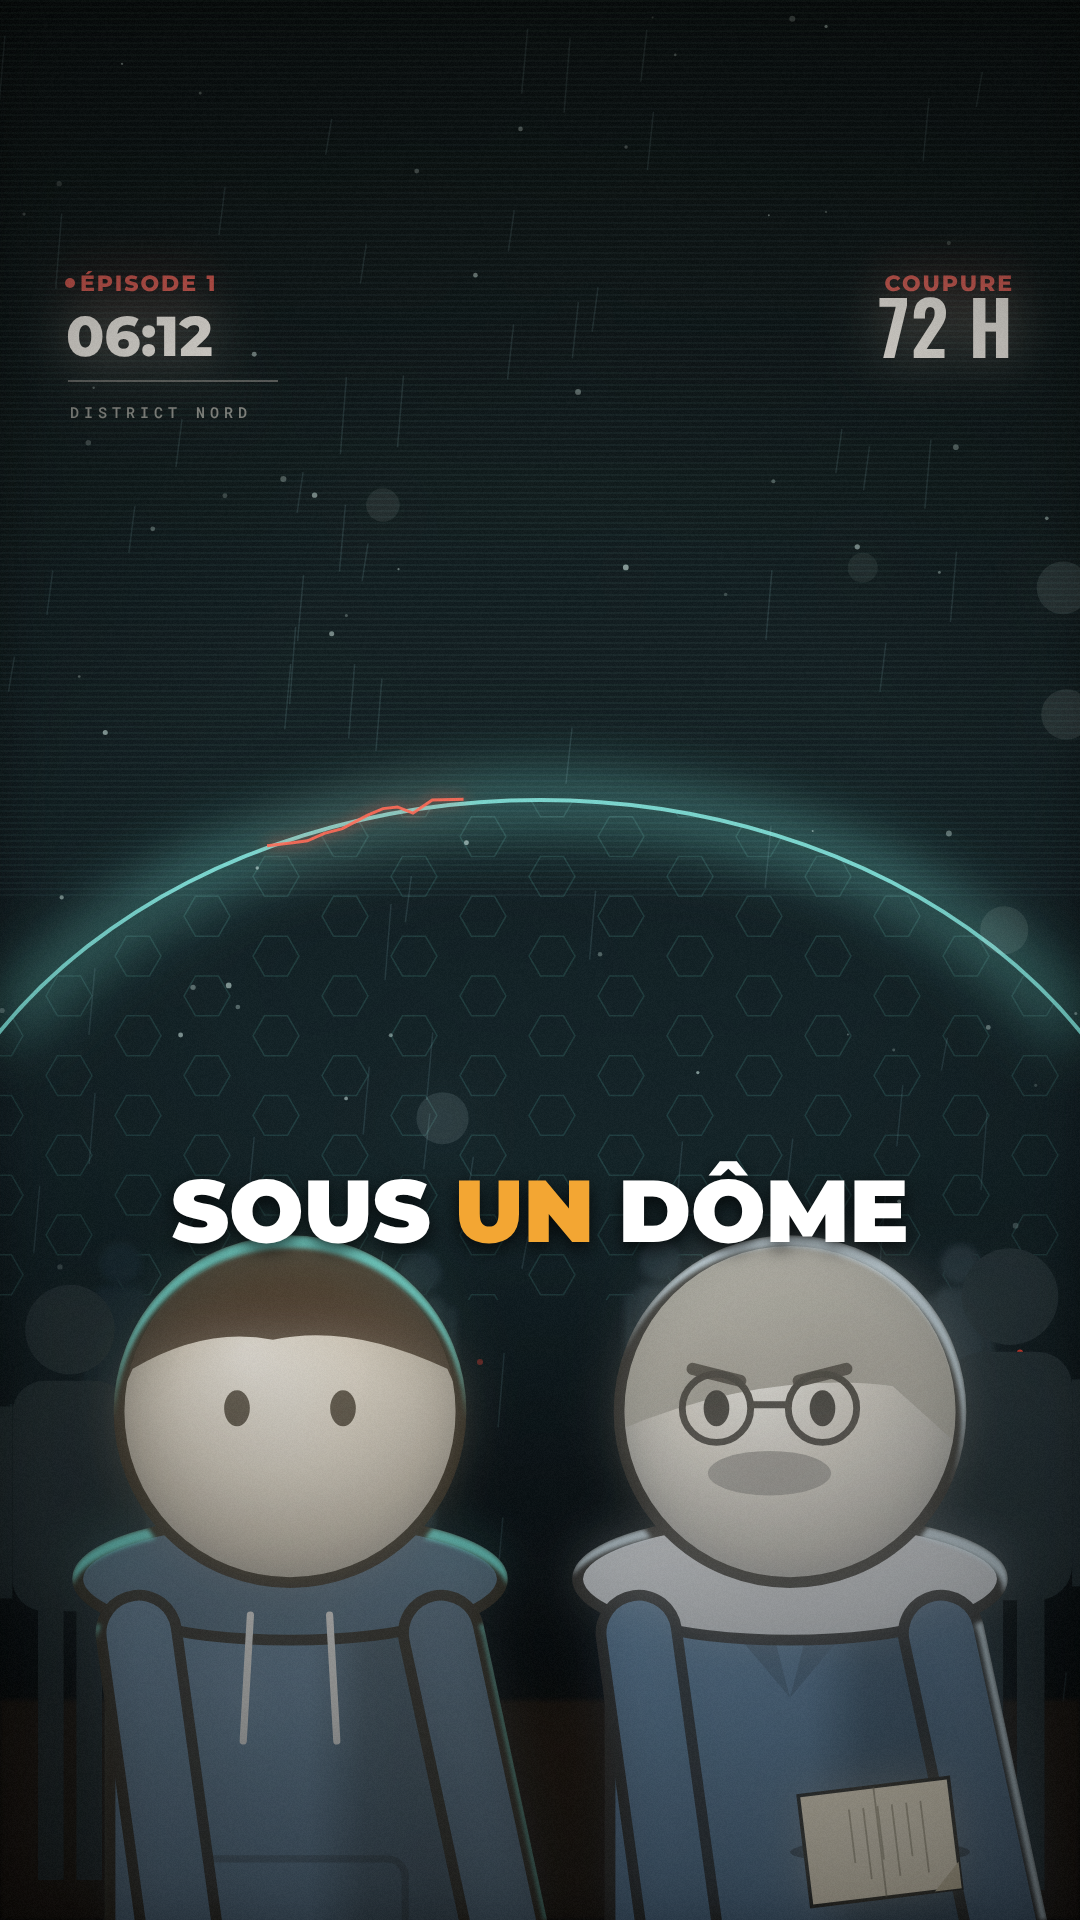
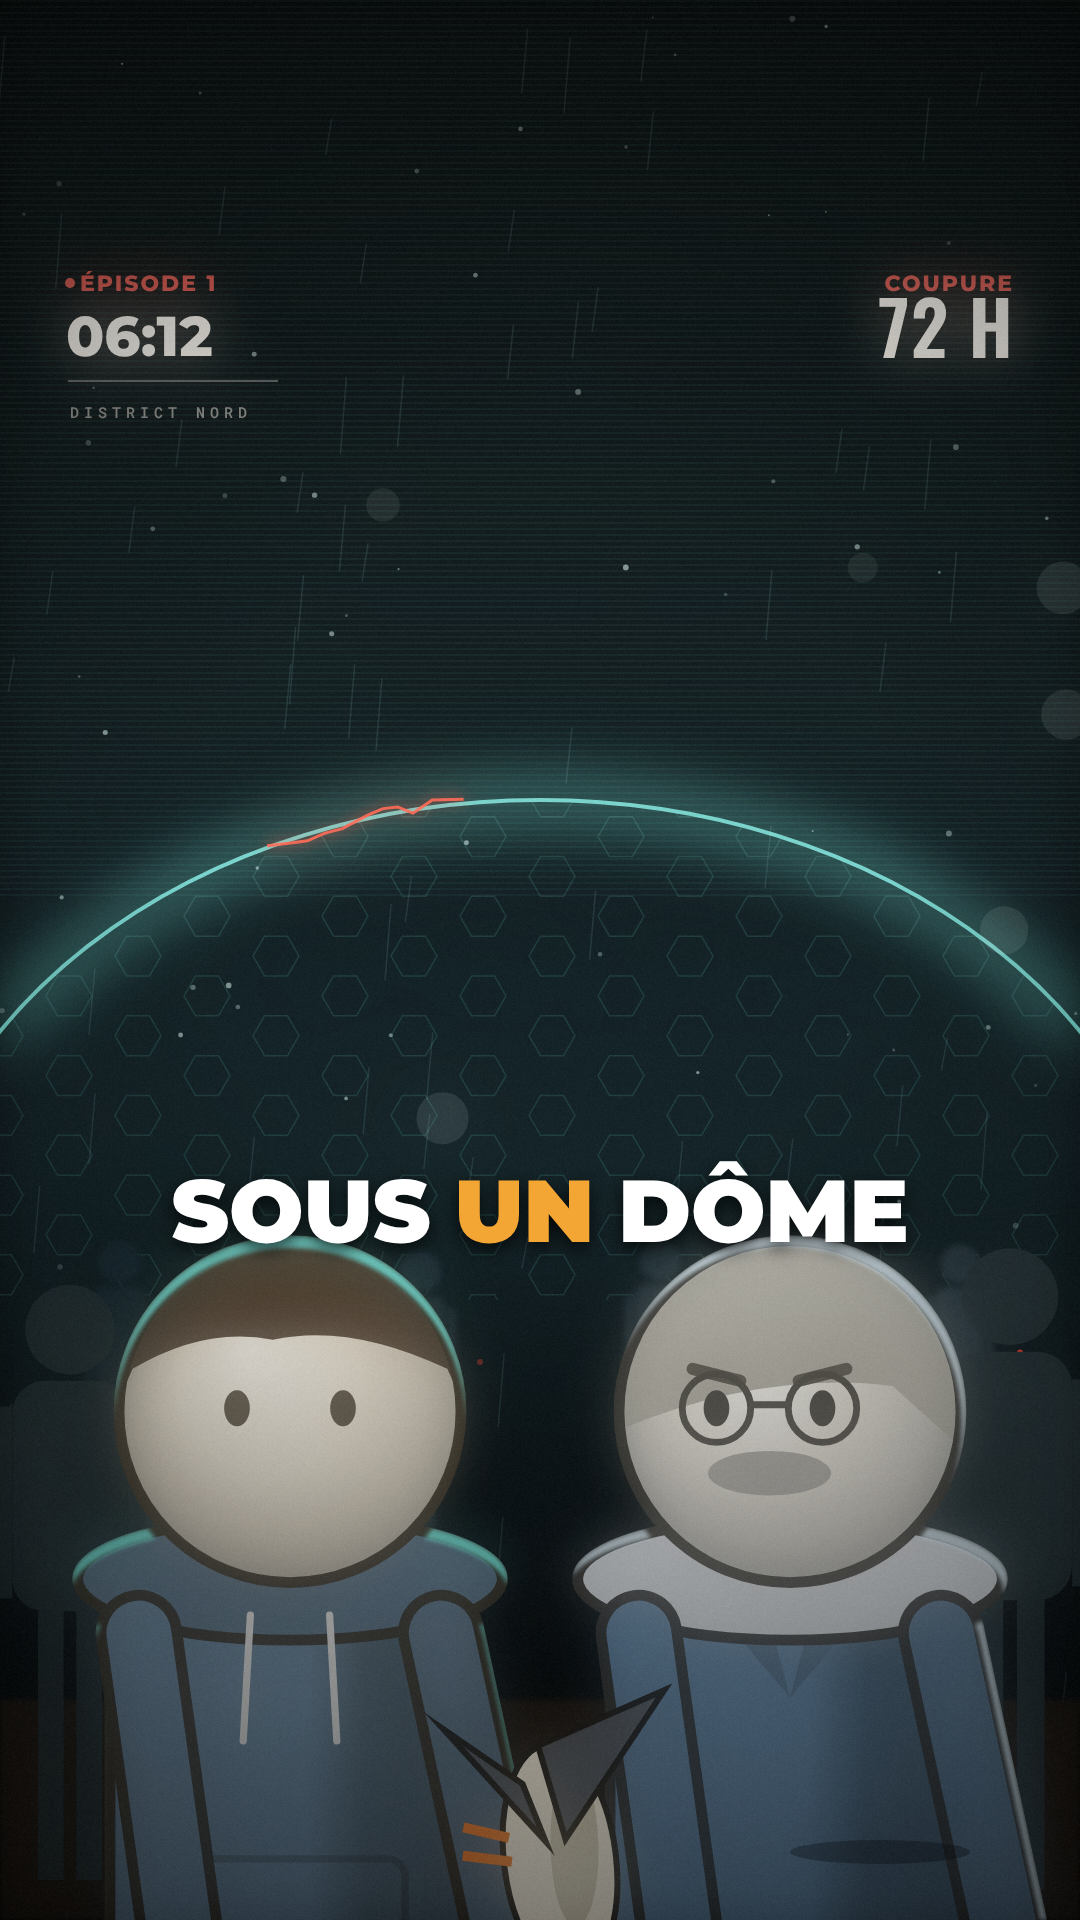
couronne-ep01 : plan 2 — oiseau de retour en contraste (plumage crème, bec et pattes orange), plus gros, ouverture sur l'oiseau
Claude-Session: https://claude.ai/code/session_0151hKPePi5KPXjL7mUCuxno

Changed region(s): [[0.4278, 0.875, 0.6111, 1.0], [0.7333, 0.9062, 0.8861, 1.0], [0.3972, 0.875, 0.4278, 0.9062]]

diff --git a/productions/couronne-ep01/rendu_v3/scenes.js b/productions/couronne-ep01/rendu_v3/scenes.js
@@ -772,8 +772,8 @@ S.p02h_buste_vivant = g => {                              // image 2 v13
   crowdStanding(g);
   actor(g, 790, 2650, 1.8, { ...PERE, look: -0.12, arms: [[-1, 10], [1, 10]] }, { rim: "#cfe3ee", rimAng: -1.2, rimW: 7, key: "#dfe9ef", shadow: false });   // père, côté droit
   actor(g, 290, 2650, 1.8, { ...HERO, look: 0.0, arms: [[-1, 10], [1, 10]] }, { rim: TEAL, rimAng: -1.57, rimW: 7, key: "#ffd9a0", shadow: false });
-  paperSheet(g, 540, 1400, 1.0, 0.35, 4);
-  paperSheet(g, 540, 1400, 1.0, 0.35, 0);
+  pigeon(g, 540, 1400, 2.8, 1.2, 3);
+  pigeon(g, 540, 1400, 2.8, 1.2, 0);
   hud(g); finish(g, { bloom: 0.35, grade: ["#06202a", "#ffd9a0", 0.16] }); caption(g, ["SOUS", "UN", "DÔME"], 1);
 };
 S.p02i_sol_vivant = g => {                                // image 3 v13
@@ -785,7 +785,7 @@ S.p02i_sol_vivant = g => {                                // image 3 v13
   actor(g, 790, 2650, 1.8, { ...PERE, look: -0.12, arms: [[-1, 10], [1, 10]] }, { rim: "#cfe3ee", rimAng: -1.2, rimW: 7, key: "#dfe9ef", shadow: false });   // père, côté droit
   actor(g, 290, 2650, 1.8, { ...HERO, look: 0.0, arms: [[-1, 10], [1, 10]] }, { rim: TEAL, rimAng: -1.57, rimW: 7, key: "#ffd9a0", shadow: false });
   g.fillStyle = "rgba(0,0,0,0.4)"; g.beginPath(); g.ellipse(880, 1852, 90, 12, 0, 0, 7); g.fill();
-  paperSheet(g, 880, 1842, 0.9, 1.45, 0);
+  pigeon(g, 560, 1860, 2.0, 1.45, 0);
   hud(g); finish(g, { bloom: 0.35, grade: ["#06202a", "#ffd9a0", 0.16] }); caption(g, ["SOUS", "UN", "DÔME"], 1);
 };
 // ---------- v17 : plan 2 — ouverture sur l'objet (feuille pliée qui tombe, gros plan, traînée de mouvement) ----------
@@ -795,6 +795,26 @@ S.p02j_objet_debut = g => {
   paperSheet(g, 540, 560, 2.4, 0.3, 10);
   paperSheet(g, 540, 700, 2.4, 0.3, 4);
   paperSheet(g, 540, 820, 2.4, 0.3, 0);
+  hud(g); finish(g, { bloom: 0.35, grade: ["#06202a", "#ffd9a0", 0.16] }); caption(g, ["SOUS", "UN", "DÔME"], 1);
+};
+// ---------- v18 : retour de l'oiseau, en contraste (plumage crème, bec et pattes orangés), plus gros ----------
+function pigeon(g, x, y, s, rot, blur = 0) {         // oiseau mort : plumage crème et gris, bec et pattes orange
+  g.save(); g.translate(x, y); g.rotate(rot); g.scale(s, s); if (blur) g.filter = `blur(${blur}px)`;
+  g.fillStyle = "#ece4d2"; g.beginPath(); g.ellipse(0, 0, 58, 28, 0, 0, 7); g.fill(); g.strokeStyle = INK; g.lineWidth = 3; g.stroke();   // corps
+  g.fillStyle = "#c8bfa8"; g.beginPath(); g.ellipse(-6, -8, 40, 12, 0.1, 0, 7); g.fill();                                              // dos ombré
+  g.fillStyle = "#4a4d52"; g.beginPath(); g.moveTo(-10, -4); g.lineTo(-78, -62); g.lineTo(-58, 4); g.closePath(); g.fill(); g.stroke();  // aile haute grise
+  g.beginPath(); g.moveTo(-10, 6); g.lineTo(-72, 50); g.lineTo(-40, 14); g.closePath(); g.fill(); g.stroke();                       // aile basse
+  g.fillStyle = "#ece4d2"; g.beginPath(); g.arc(56, -6, 18, 0, 7); g.fill(); g.stroke();                                              // tête
+  g.fillStyle = "#e0701e"; g.beginPath(); g.moveTo(70, -8); g.lineTo(92, 0); g.lineTo(70, 4); g.closePath(); g.fill();                  // bec orange
+  g.strokeStyle = "#17130e"; g.lineWidth = 3; g.beginPath(); g.moveTo(60, -4); g.lineTo(68, -2); g.moveTo(60, -12); g.lineTo(68, -14); g.stroke();   // œil fermé
+  g.strokeStyle = "#e0701e"; g.lineWidth = 5; g.beginPath(); g.moveTo(-14, 24); g.lineTo(-22, 46); g.moveTo(-2, 24); g.lineTo(-8, 48); g.stroke();   // pattes orange
+  g.restore();
+}
+S.p02k_oiseau_debut = g => {                         // ouverture : oiseau énorme qui tombe, traînée verticale
+  domeNight(g);
+  for (let i = 0; i < 50; i++) { g.strokeStyle = rgba("#cfe9e6", 0.05 + rnd(i) * 0.1); g.lineWidth = 2 + rnd(i * 3) * 3; const x = rnd(i * 7) * W; g.beginPath(); g.moveTo(x, 0); g.lineTo(x + 4, H); g.stroke(); }
+  pigeon(g, 540, 640, 2.6, 0.5, 10);
+  pigeon(g, 540, 780, 2.6, 0.5, 0);
   hud(g); finish(g, { bloom: 0.35, grade: ["#06202a", "#ffd9a0", 0.16] }); caption(g, ["SOUS", "UN", "DÔME"], 1);
 };
 window.SCENES = Object.fromEntries(Object.entries(S).filter(([k]) => !k.endsWith("_bg")));
